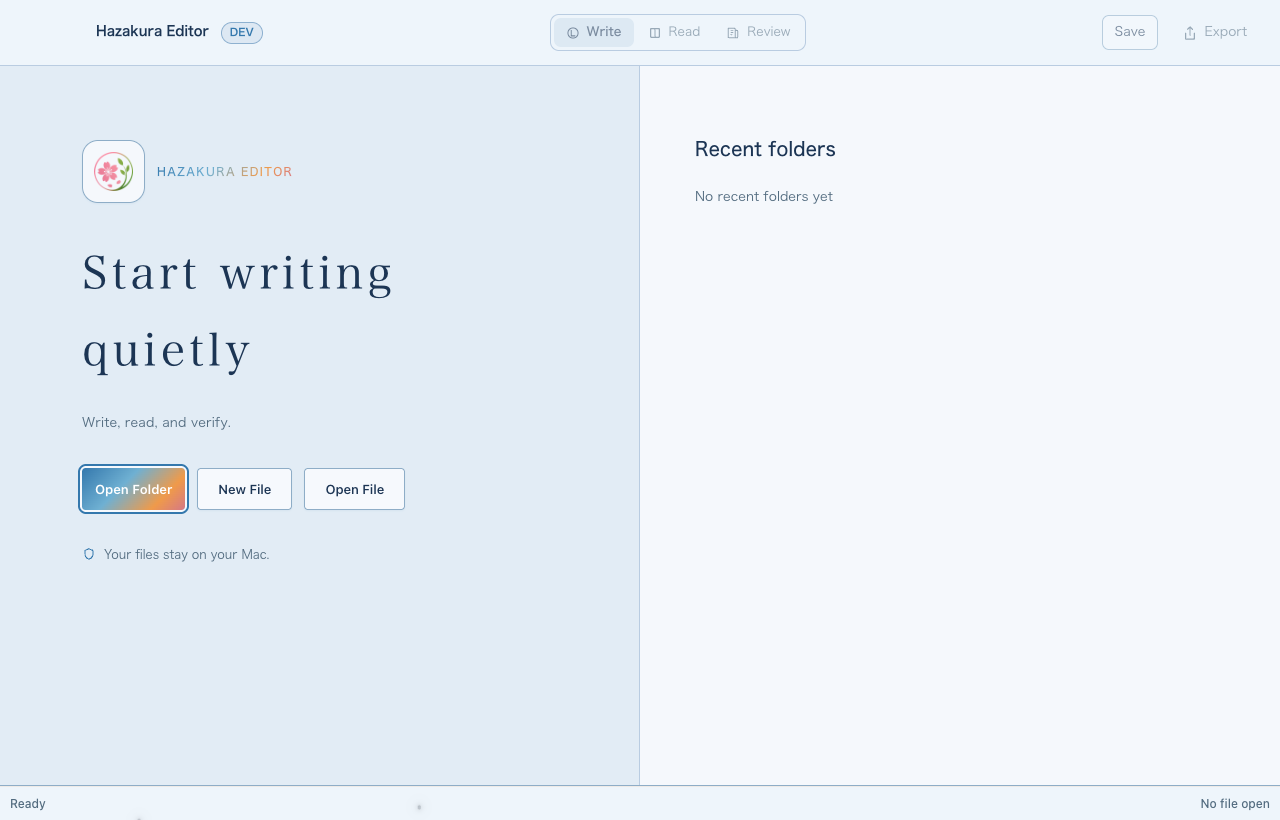
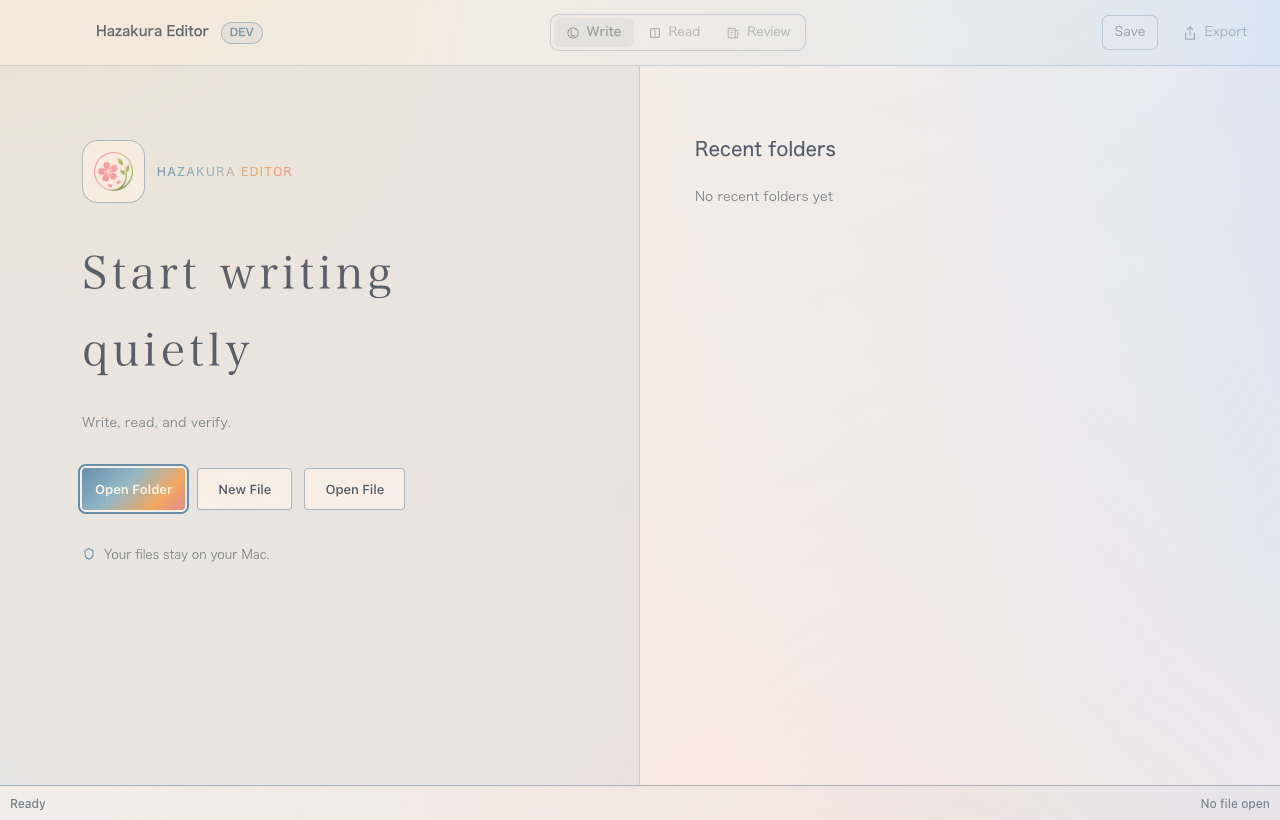
テーマ: 江戸彼岸に「風」を、曙光を淡く（実機第4弾・第14報）
オーナー判断: 江戸彼岸=動きの演出 / 曙光=少し淡く。

江戸彼岸:
- 突風を「時間そのものを揺らす」方式で実装（gustWave）。
  位置を直接動かさないので葉が飛ばず、速度だけが変わる＝ふっと流れて静かに戻る。
- 揺らした時間 wt を葉・埃・光に配る（世界が1つに見える）。光は t+2.5*gust で
  少し速く動く（枝が揺れる気配）。
- 実測: 波形は30-70秒おきに立ち上がり、間は 0.00（平均0.25→指数9でさらに短く鋭く）。
  GLSL コンパイル成功、葉が wt を使うことも確認。

曙光:
- 重ねる層の opacity 0.42 → 0.25（色は残し紙面の主張を弱める）。color 合成なので明度は不変。

diff --git a/src/components/app/EdohiganShaderOverlay.tsx b/src/components/app/EdohiganShaderOverlay.tsx
@@ -124,6 +124,15 @@ float canopyField(vec2 p) {
   return fbm3(p * 8.0 + (w - 0.5) * 1.25);
 }
 
+/* 突風: ほとんど静かで、ときどき強く吹く（40〜70秒に一度）。
+   位置を直接動かすと葉が飛ぶので、**時間そのものを前後に揺らす**。
+   速度だけが変わる＝ふっと流れて、また静かに戻る。 */
+float gustWave(float t) {
+  float base = 0.5 + 0.5 * sin(t * 0.085 + 1.7 * sin(t * 0.019));
+  // 指数を上げると「短く強く、あとは静か」になる（実測の平均 0.25 → 0.12 程度）。
+  return pow(base, 9.0);
+}
+
 /* 葉の形: 先 (+x) へ細る楕円。p はローカル座標（長辺 = x）。 */
 float leafShape(vec2 p) {
   float taper = mix(1.5, 7.0, smoothstep(-0.52, 0.58, p.x));
@@ -195,6 +204,11 @@ void main() {
   vec2 flow = texture(u_flowField, uv).rg * 2.0 - 1.0;
   vec2 p = (uv - 0.5) * vec2(aspect, 1.0);
 
+  // 実機要望（第13報）: 動きの演出。突風のときだけ時間が進み、葉も埃も光も
+  // まとめて流れる。位置を直接いじらないので不自然に飛ばない。
+  float gust = gustWave(t) * motion;
+  float wt = t + 7.5 * gust;
+
   // multiply 合成なので 1.0 = 紙のまま。ここから**引いた分だけが影**になる。
   // 光は「影を引かなかった場所」として現れる（紙の上の木漏れ日はそう見える）。
   vec3 col = vec3(1.0);
@@ -204,7 +218,9 @@ void main() {
   col -= vec3(0.075, 0.066, 0.056) * (1.0 - sunDir);
 
   // 木漏れ日（主役）。風でわずかに流れる。
-  float field = canopyField(p + flow * 0.30 + vec2(t * 0.010, -t * 0.007));
+  // 光もゆっくり移る（突風では少しだけ速く動く＝木の上の枝が揺れる）。
+  float lt = t + 2.5 * gust;
+  float field = canopyField(p + flow * 0.30 + vec2(lt * 0.014, -lt * 0.010));
   // 葉の隙間 = 明るい側。1 つの場から光と翳りを同時に作る（光に翳りは無い）。
   // 影を引かない場所＝紙がそのまま見える場所が「光」。multiply では明るくはできないが、
   // 影の無い面が隣接することで光として読める（紙の上の木漏れ日の見え方と同じ）。
@@ -215,7 +231,7 @@ void main() {
 
   // 舞う葉（影として落ちる）。
   float petalHits;
-  float leaves = driftingLeaves(uv, aspect, t, motion, flow, petalHits);
+  float leaves = driftingLeaves(uv, aspect, wt, motion, flow, petalHits);
   col -= vec3(0.80, 0.87, 0.76) * leaves * motion;
 
   // 遅れて落ちる花びらも、紙の上では薄い影として落ちる。
@@ -228,8 +244,9 @@ void main() {
     float r1 = hash21(vec2(fi, 2.11));
     float r2 = hash21(vec2(fi, 5.37));
     float r3 = hash21(vec2(fi, 13.9));
-    float y = fract(r2 + t * (0.006 + r1 * 0.010) * motion);
-    float x = fract(r3 + 0.03 * sin(t * 0.05 + r1 * 6.28) + flow.x * 0.18);
+    // 突風では埃も舞い上がる（wt に突風ぶんが乗っているので速度が上がる）。
+    float y = fract(r2 + wt * (0.006 + r1 * 0.010) * motion);
+    float x = fract(r3 + 0.03 * sin(wt * 0.05 + r1 * 6.28) + flow.x * 0.18);
     vec2 pos = vec2((x - 0.5) * aspect, y - 0.5);
     float d = length(p - pos) / (0.0035 + r2 * 0.0035);
     float mote = exp(-d * d * 1.6);

diff --git a/src/styles/app-shell.css b/src/styles/app-shell.css
@@ -108,7 +108,9 @@
   inset: 0;
   /* 明るい地では明度を触ると読みづらくなる。色相だけを移す color を使う。 */
   mix-blend-mode: color;
-  opacity: 0.42;
+  /* 実機判断（第13報）: 「優しい黄と青で綺麗だが、エディタとしては悩ましい」。
+     色は残しつつ、少しだけ淡くして紙面の主張を弱める。 */
+  opacity: 0.25;
   pointer-events: none;
   position: fixed;
 }

diff --git a/docs/reviews/2026-09-11-mock-gap-sweep/README.md b/docs/reviews/2026-09-11-mock-gap-sweep/README.md
@@ -219,6 +219,28 @@
 
 契約テスト `editorCss.test.ts` を新構造（トークン＋重ねる層）に追随。
 
+### 実機第4弾・第14報（江戸彼岸に「動き」／曙光を淡く）
+
+オーナー判断:「曙光は優しい黄と青で綺麗で曙光っぽいが、エディタとしては悩ましい
+（まあいいか）。江戸彼岸はまだまだやれる」。→ 江戸彼岸=**動きの演出**、曙光=**少し淡く**。
+
+**江戸彼岸の動き（突風）**
+- 位置を直接動かすと葉が飛ぶので、**時間そのものを前後に揺らす**方式にした
+  （`gustWave(t) = pow(0.5 + 0.5*sin(t*0.085 + 1.7*sin(t*0.019)), 9)`）。
+  速度だけが変わるので不自然な跳びがなく、「ふっと流れて、また静かに戻る」になる。
+- 揺らした時間 `wt` を **葉・埃・光**の3つに配る（まとめて風に流れる＝世界が1つに見える）。
+  光は `t + 2.5*gust` で少しだけ速く動く（枝が揺れる気配）。
+- 実測: 波形は 30〜70 秒おきに立ち上がり、間は 0.00（平均 0.25 → 指数を 5→9 にして
+  さらに短く鋭く）。GLSL はコンパイル成功、葉が `wt` を使っていることも確認。
+
+**曙光**
+- 重ねる層の opacity 0.42 → **0.25**（色は残し、紙面の主張を弱める）。
+  `color` 合成なので明度は動かず、読みやすさは元から影響しない。
+
+備考: fixture での「動き」の画素読み出しは当てにならない（WebGL の readback が
+不安定＋大きい base64 でブラウザが落ちる）。u_time は performance.now() で進む実装で、
+他テーマの演出が実機で動いていることが動作の証拠。最終確認は実機。
+
 ### 未着手（やるなら次スライス）
 
 | # | 内容 | 見積り |
